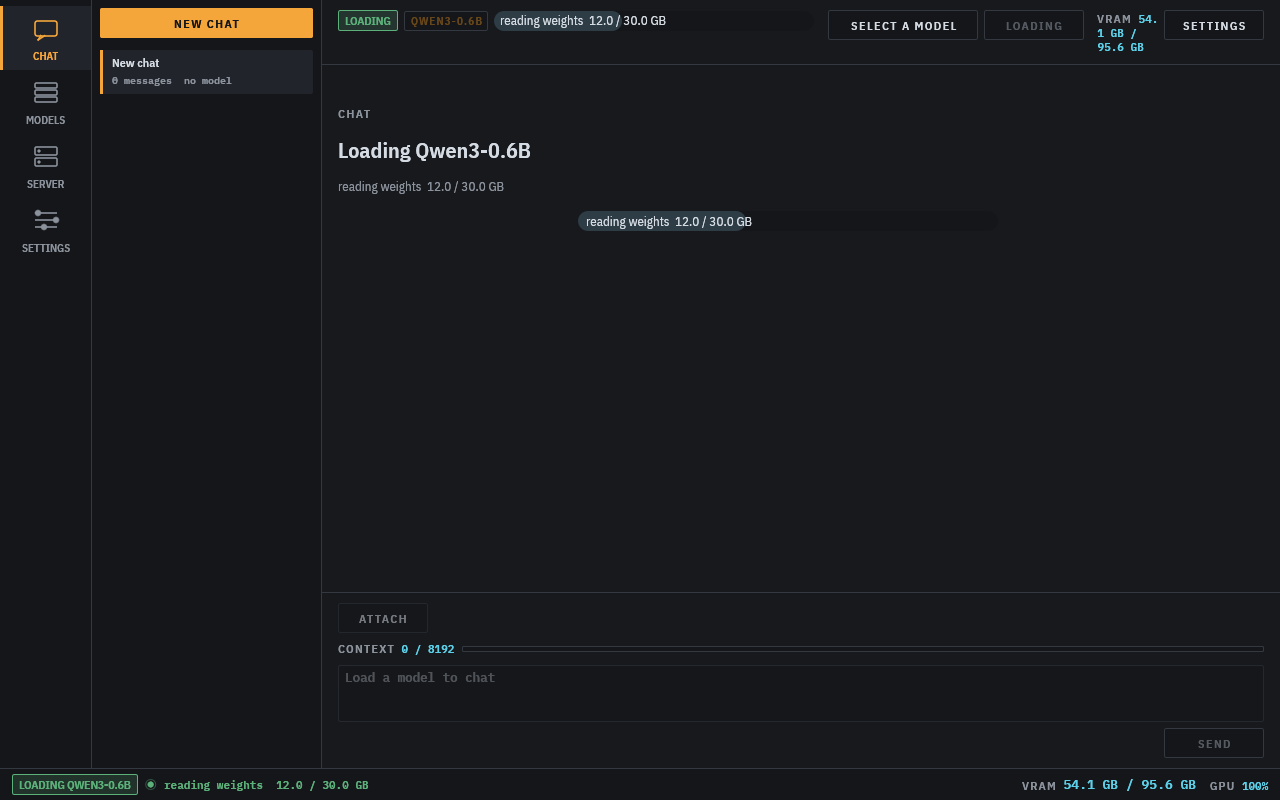
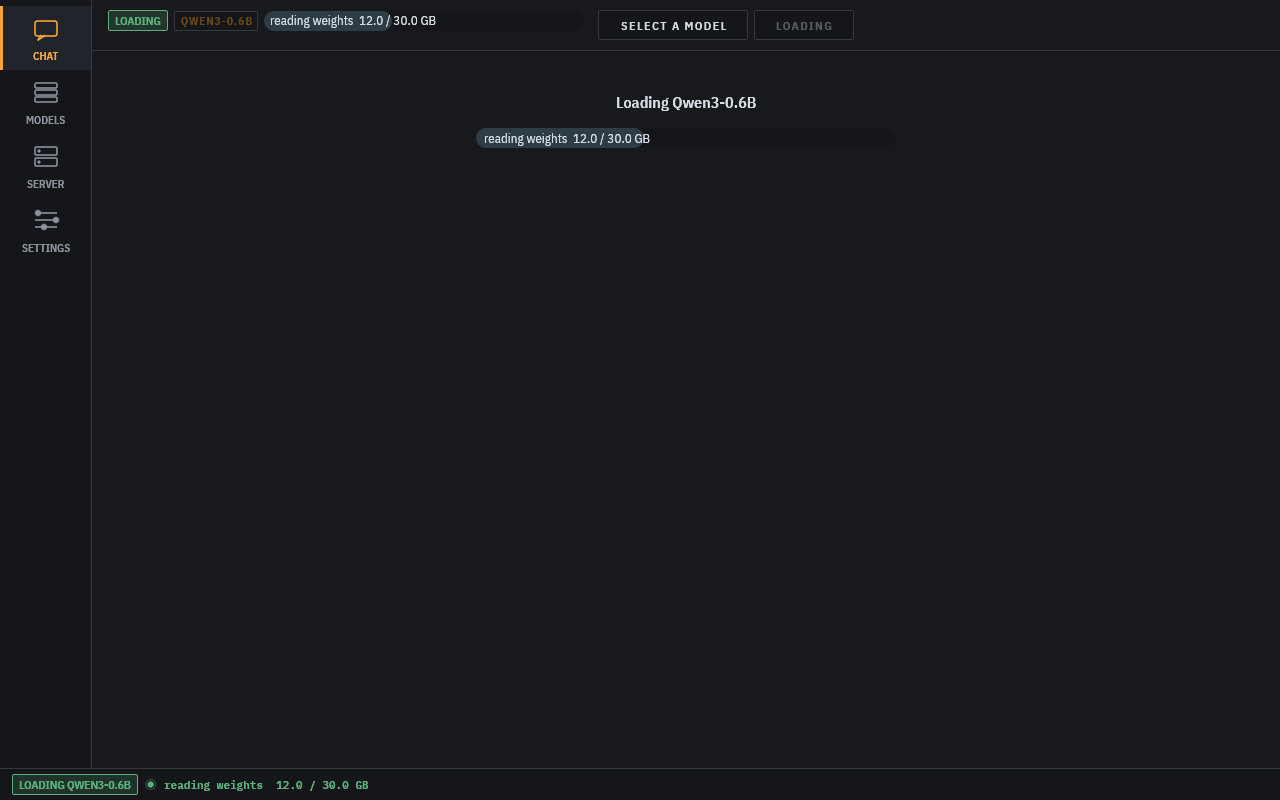
Docs for split groups, chat load bar

diff --git a/crates/ui/src/chat.rs b/crates/ui/src/chat.rs
@@ -128,8 +128,12 @@ fn header(app: &mut App, ui: &mut egui::Ui) {
 
 fn empty_state(app: &mut App, ui: &mut egui::Ui) {
     if let (Some(name), Some(p)) = (&app.loading, &app.load_progress) {
-        welcome(ui, &format!("Loading {name}"), &crate::modelbar::progress_text(p));
-        ui.vertical_centered(|ui| crate::modelbar::load_bar(ui, p, 420.0));
+        ui.add_space(40.0);
+        ui.vertical_centered(|ui| {
+            ui.label(egui::RichText::new(format!("Loading {name}")).font(legend_font(16.0)).color(VALUE));
+            ui.add_space(10.0);
+            crate::modelbar::load_bar(ui, p, 420.0);
+        });
         return;
     }
     if usable_models(app) == 0 {

diff --git a/docs/specrt-27b.md b/docs/specrt-27b.md
@@ -262,32 +262,37 @@ Technique review of InstantTensor for a single-GPU Rust loader. Used: O_DIRECT r
 
 How it works (`crates/specrt/src/loader.rs`, `load_weights` in `crates/specrt/src/runtime.rs`):
 
-- The weights are split into groups: group 0 is the embedding, final norm, `lm_head` and the MTP layer, then one group per decoder layer. Group 0 goes first because it is the largest (5 GB with the MTP draft head quantized to NVFP4) and would otherwise finish last.
+- The weights are split into groups, each read, converted, uploaded and released on its own: the head (final norm, `lm_head`, and the NVFP4 MTP draft head made from it), the first half of the layers, the embedding, the MTP layer, then the rest of the layers. The head goes first because its conversion is the slowest single group; the embedding and MTP layer sit in the middle so that the big buffers are spread out instead of being in memory at once.
+- A host budget (`host_budget_mb`, 3584) caps the bytes held by groups in flight. A read or a conversion waits for its lease until earlier groups finish, except that a group larger than the whole budget still runs on its own. This is what keeps peak host RSS at the old mmap baseline.
 - A reader thread reads each group's tensors with `readers` threads doing `chunk_mb` O_DIRECT `pread`s into one aligned host buffer, at most `ahead` groups ahead of the workers. O_DIRECT falls back to buffered reads when the filesystem refuses (tested on /dev/shm).
 - `workers` threads each take the next group, convert it on the host (fp8 scales, bf16, NVFP4 repacking, gate/up interleave) straight from the read buffer, and copy it with `cuMemcpyHtoDAsync` on that worker's own stream. Each worker records an event after its copies and waits on it before the buffer goes back to the pool, so a buffer is never reused while a copy still reads it. Conversion stays on the host: it is byte-identical to the mmap path (tested on the bf16 and fp8 tiny fixtures), it runs in parallel across groups, and the NVFP4 head and global-scale passes are split across threads.
-- If at least 95% of the checkpoint is already in the page cache (`mincore`), the reader is skipped and the workers convert straight from the mmap. Reading through O_DIRECT again would only copy memory that is already there. Pages are released per group after upload.
+- If at least 80% of the checkpoint is already in the page cache (`mincore`), the reader is skipped and the workers convert straight from the mmap. Reading through O_DIRECT again would only copy memory that is already there. Pages are released per group after upload.
 
-Knobs, `[runtime.loader]` in the spec or server config: `enabled` (true), `direct` (true), `chunk_mb` (32), `readers` (8), `ahead` (2), `workers` (4), `lanes` (1, reader threads that read different groups at once), `skip_cached` (true), `pinned` (false).
+Knobs, `[runtime.loader]` in the spec or server config: `enabled` (true), `direct` (true), `chunk_mb` (32), `readers` (8), `ahead` (2), `workers` (4), `lanes` (1, reader threads that read different groups at once), `skip_cached` (true), `pinned` (false), `host_budget_mb` (3584).
 
 Disk ceiling: `dd iflag=direct bs=16M` reads 12.1 to 12.5 GB/s from one file. All six 27B shards read in parallel with `dd iflag=direct` take 2.40 s for 24.7 GB (10.3 GB/s). Cold means each file was evicted first (`dd iflag=nocache count=0`); warm means `cat` of every shard first. With O_DIRECT a cold load leaves the page cache cold. Measured with `bench`, RTX PRO 6000 beside the live vLLM, kernel cache warm. Before and after were alternated. The table gives the median of three.
 
 | model | path | cache | weight_secs | GB/s | load_secs | peak host RSS |
 |---|---|---|---|---|---|---|
-| Qwen3-0.6B (1.50 GB) | mmap (before) | cold | 0.55 | 2.7 | 0.83 | 0.52 GB |
-| Qwen3-0.6B | mmap (before) | warm | 0.25 | 6.0 | 0.52 | 0.52 GB |
-| Qwen3-0.6B | fast (after) | cold | 0.20 | 7.5 | 0.47 | 1.03 GB |
-| Qwen3-0.6B | fast (after) | warm | 0.17 | 8.8 | 0.45 | 0.66 GB |
-| 27B NVFP4 (24.78 GB uploaded) | mmap (before) | cold | 9.01 | 2.8 | 9.31 | 5.30 GB |
-| 27B NVFP4 | mmap (before) | warm | 4.11 | 6.0 | 4.42 | 5.31 GB |
-| 27B NVFP4 | fast (after) | cold | 3.13 | 7.9 | 3.41 | 9.45 GB |
-| 27B NVFP4 | fast (after) | warm | 2.42 | 10.2 | 2.73 | 8.86 GB |
+| Qwen3-0.6B (1.50 GB) | mmap (before) | cold | 0.56 | 2.7 | 0.83 | 0.52 GB |
+| Qwen3-0.6B | mmap (before) | warm | 0.24 | 6.3 | 0.52 | 0.52 GB |
+| Qwen3-0.6B | fast (after) | cold | 0.17 | 8.8 | 0.45 | 0.72 GB |
+| Qwen3-0.6B | fast (after) | warm | 0.15 | 10.0 | 0.43 | 0.66 GB |
+| 27B NVFP4 (24.78 GB uploaded) | mmap (before) | cold | 9.86 | 2.5 | 10.25 | 5.30 GB |
+| 27B NVFP4 | mmap (before) | warm | 5.07 | 4.9 | 5.71 | 5.31 GB |
+| 27B NVFP4 | fast, one head group, no budget | cold | 3.17 | 7.8 | 3.48 | 9.42 GB |
+| 27B NVFP4 | fast, one head group, no budget | warm | 2.23 | 11.1 | 2.45 | 8.88 GB |
+| 27B NVFP4 | fast (after, split groups, 3.5 GB budget) | cold | 2.85 | 8.7 | 3.16 | 5.10 GB |
+| 27B NVFP4 | fast (after, split groups, 3.5 GB budget) | warm | 2.34 | 10.6 | 2.64 | 4.89 GB |
 
-The 27B loads 2.9x faster cold and 1.7x faster warm. Warm is at the 2.4 s parallel-read ceiling. Cold is 0.7 s above it. What limits each case, measured with per-group timers:
+The machine was busier during this run than in earlier ones (load average 8 to 12 from other sessions' builds and tests), so the mmap baseline is slower here than the 9.0 s and 4.1 s measured before. The two fast rows were alternated in the same window. Splitting the head group and adding the budget brings peak RSS from 8.9-9.4 GB to 4.9-5.1 GB, below the 5.3 GB mmap baseline. Cold is 0.3 s faster (the big head conversion no longer holds back the reads) and warm 0.1 s slower. Against the mmap path, the 27B now loads 3.5x faster cold and 2.2x faster warm, at the same memory.
 
-- Warm: the four workers spend 14.5 s in total converting and copying 66 groups. Group 0 alone takes 1.05 s (the 2.5 GB bf16 `lm_head` plus quantizing the MTP draft head to NVFP4), so it sets the floor while the layers spread across the other workers. More workers (8, 12) gave 2.17 to 2.31 s at up to 11.4 GB RSS. The NVFP4 draft-head quantize could move to a GPU kernel (`nvfp4.rs` has no device quantizer yet), which would cut about 0.6 s from group 0.
-- Cold: the reader is the long pole at 3.0 s for 24.7 GB (8.2 GB/s), against 2.4 s for six parallel `dd`s. Reading several groups at once (`lanes` = 2 or 4) was slower (3.5 to 3.75 s) and used 12 to 14 GB RSS. More readers or larger chunks (16 x 16 MB, 8 x 64 MB) changed nothing (3.29 to 3.37 s).
+What limits each case, from per-group timers:
+
+- Warm: conversion and copy. The head group (2.5 GB bf16 `lm_head` plus quantizing the NVFP4 draft head) takes 0.8 s on one worker, and the four workers together spend about 6.3 s converting and copying the 67 groups. More workers go faster (6 workers: 2.25-2.38 s) but peak at 5.9-6.0 GB, above the baseline. Moving the NVFP4 draft-head quantize to the GPU would take most of the head group's time off the host; that is tracked separately.
+- Cold: the read. 24.7 GB in about 2.8 s is 8.8 GB/s, against 2.40 s (10.3 GB/s) for six parallel `dd iflag=direct`. Reading several groups at once (`lanes` = 2 or 4) was slower (3.5 to 3.75 s) and used 12 to 14 GB. More readers or larger chunks (16 x 16 MB, 8 x 64 MB) changed nothing.
+- Budget sweep (27B, 4 workers, cold / warm weight_secs, peak RSS): 3072 MB: 3.34 / 2.70 s, 4.5 GB; 3584 MB: 2.69-2.79 / 2.43-2.62 s, 4.9-5.2 GB; 4096 MB: 2.93-3.07 / 2.37-2.49 s, 4.8-5.5 GB; 6144 MB: 2.80-2.84 / 2.30-2.37 s, 5.1-5.5 GB. 3584 MB is the largest that stays under 5.3 GB.
 - Pinned buffers (`pinned = true`, `cuMemHostAlloc`) made cold loads slower: 3.30 to 3.42 s, against 2.92 s with aligned heap buffers. Each 256 to 384 MB allocation took 30 to 90 ms, and the copy from pageable memory is not the bottleneck. So pinned buffers are off by default and stay as an option.
-- Peak RSS: 8.9 to 9.5 GB, against 5.3 GB before. Most of it is group 0: the 5 GB read buffer plus its bf16 and NVFP4 copies. With `ahead` = 1 and `workers` = 1, peak RSS was still 7.5 GB at 3.9 s, so the ring (`chunk_mb` x `readers` x `ahead`) is not what adds the memory. Splitting group 0 across workers (the embedding, the head and the MTP layer each on its own) would lower the peak.
-- The 0.6B is now faster both ways: 0.17 s warm, against 0.25 s before (the page-cache check sends it down the mmap path), and 0.20 s cold, against 0.55 s.
+- The page-cache check uses 80%: right after `cat` of all 24.7 GB the cache held 93.8% of it (the rest was evicted under the 62 GB RAM with vLLM running), which missed the earlier 95% cut-off and sent the warm load through O_DIRECT at 4.8 s.
 
 Progress: `specrt::progress` reports stages (compiling kernels, reading weights with bytes done and total, allocating KV cache) through a thread-local sink. `Engine::load_with_progress` and `ServeOptions::progress` set the sink, and the load workers inherit it. Core turns it into `EngineEvent::LoadProgress`. The UI model bar, chat page and status bar show it (screenshot `docs/gui/load-progress.png`), and the server reports `loading` in `/health` and `/admin/models`.
